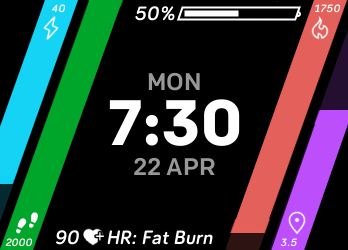
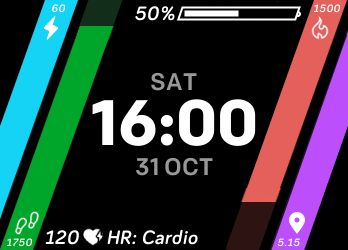
Version 3.0: Added weather and floors climbed

diff --git a/Rays-export/app/index.js b/Rays-export/app/index.js
@@ -8,7 +8,9 @@ import { battery } from "power";
 import { user } from "user-profile";
 import { HeartRateSensor } from "heart-rate";
 import * as util from "../common/utils";
+import * as messaging from "messaging";
 
+const display = document.getElementById("display");
 const dayText = document.getElementById("dayText");
 const timeText = document.getElementById("timeText");
 const dateText = document.getElementById("dateText");
@@ -39,9 +41,21 @@ const distText = document.getElementById("distText");
 const distIcon = document.getElementById("distIcon");
 const distCap = document.getElementById("distCap");
 
+let textuse = document.getElementById("textuse");
+let textgroup = textuse.getElementById("textgroup");
+let distuse = document.getElementById("distuse");
+let distgroup = distuse.getElementById("distgroup");
+
+let currTemp = "--";
+let currWeather = "";
+let currWeatherIcon = "img_sun.png";
+
 const barSlope = -2.78;
 const longBarWidth = 94;
 const shortBarWidth = 80;
+
+let baseInfo = true;
+let changingInfo = false;
 
 // Update the clock every minute
 clock.granularity = "minutes";
@@ -62,12 +76,32 @@ clock.ontick = (evt) => {
   updateGoalBars();
   updateGoalInfo();
   updateBattery();
-  updateHeart();
+  updateBottomText();
+}
+
+display.onclick = () => {
+  // First check that we're not in the middle of editing the info.
+  if (!changingInfo)
+  {
+    changingInfo = true;
+    baseInfo = !baseInfo;
+    textuse.animate("enable");
+    distuse.animate("enable");
+    updateGoalBars();
+    updateGoalInfo();
+    updateBottomText();
+    textuse.animate("disable");
+    distuse.animate("disable");
+    changingInfo = false;
+  }
 }
 
 // Set the final x/y for each goal bar based on goal progress.
 function updateGoalBars() {
-  // I know magic numbers are bad BUT there are quite a few here just for adjustment of the bars and caps. Sorry!
+  // The bars aren't actually all solid -- they're mostly drawn lines, with images for the caps. So we have to do
+  // some math to make sure they line up correctly and are the right size.
+  
+  // I know magic numbers are bad but there are quite a few here just for adjustment of the bars and caps. Sorry!
   activityBar.x2 = -util.getGoalBar(activityBar.x1, shortBarWidth, today.local.activeMinutes, goals.activeMinutes);
   activityBar.y2 = activityBar.x2 * barSlope - 4;
   activityCap.x = activityBar.x2 - 19;
@@ -83,10 +117,14 @@ function updateGoalBars() {
   calCap.x = calBar.x2 - 20;
   calCap.y = calCap.x * barSlope - 65;
   
-  distBar.x2 = util.getGoalBar(distBar.x1, shortBarWidth, today.local.distance, goals.distance);
+  if (baseInfo) {
+    distBar.x2 = util.getGoalBar(distBar.x1, shortBarWidth, today.local.distance, goals.distance);
+  } else {
+    distBar.x2 = util.getGoalBar(distBar.x1, shortBarWidth, today.local.elevationGain, goals.elevationGain);
+  }
   distBar.y2 = distBar.x2 * barSlope + 6;
-  distCap.x = distBar.x2 - 19;
-  distCap.y = distCap.x * barSlope - 55;
+  distCap.x = distBar.x2 - 18;
+  distCap.y = distCap.x * barSlope - 50;
 }
 
 // Update the stat numbers for each goal and "fill" the icon if the goal is met.
@@ -103,9 +141,19 @@ function updateGoalInfo() {
   if (today.local.calories >= goals.calories)
     calIcon.href = "img_calorieFill.png";
   
-  distText.text = util.calculateDistance(today.local.distance, units.distance);
-  if (today.local.distance >= goals.distance)
-    distIcon.href = "img_distanceFill.png";  
+  if (baseInfo) {
+    distText.text = util.calculateDistance(today.local.distance, units.distance);
+    if (today.local.distance >= goals.distance)
+      distIcon.href = "img_distanceFill.png";  
+    else
+      distIcon.href = "img_distanceLine.png";
+  } else {
+    distText.text = today.local.elevationGain || 0;
+    if (today.local.elevationGain >= goals.elevationGain)
+      distIcon.href = "img_floorFill.png";  
+    else
+      distIcon.href = "img_floorLine.png";
+  }
 }
 
 // Update battery line length and percentage.
@@ -116,13 +164,70 @@ function updateBattery() {
 }
 
 // This runs constantly so that heart rate text and icon are accurate and current.
-function updateHeart() {
+function updateBottomText() {
   let hrm = new HeartRateSensor();
-  hrm.start();
-
-  hrm.onreading = function() {
-    heartRate.text = hrm.heartRate || "--";
-    heartIcon.href = util.getHRIcon(user.heartRateZone(hrm.heartRate));
-    heartZone.text = "HR: " + util.getHRZone(user.heartRateZone(hrm.heartRate));
+  
+  if (baseInfo) {
+    hrm.start();
+    heartRate.text = "--";
+    heartIcon.href = "img_hr_resting.png";
+    heartZone.text = "Sensing..."
+    hrm.onreading = function() {
+      heartRate.text = hrm.heartRate || "--";
+      heartIcon.href = util.getHRIcon(user.heartRateZone(hrm.heartRate));
+      heartZone.text = "HR: " + util.getHRZone(user.heartRateZone(hrm.heartRate));
+    }
+  } else {
+    hrm.stop();
+    console.log("Fahrenheit temperature returned is " + currTemp + ". User setting for unit is " + units.temperature);
+    heartRate.text = (units.temperature == "F" ? currTemp : util.fahrenheitToCelsius(currTemp));
+    if (heartRate.text == null || isNaN(heartRate.text))
+      heartRate.text = "--"
+    else
+      heartRate.text += "°";
+    heartIcon.href = currWeatherIcon;
+    heartZone.text = currWeather || "Searching...";
+    console.log("Adjusting currWeather to " + currWeather);
   }
 }
+
+// Request weather data from the companion
+function fetchWeather() {
+  if (messaging.peerSocket.readyState === messaging.peerSocket.OPEN) {
+    // Send a command to the companion
+    messaging.peerSocket.send({
+      command: 'weather'
+    });
+  }
+}
+
+// Display the weather data received from the companion
+function processWeatherData(data) {
+  console.log("Weather ID: " + data.weatherid);
+  currTemp = Math.round(data.temperature);
+  currWeather = util.getWeather(data.weatherid);
+  console.log("currWeather is " + currWeather);
+  currWeatherIcon = util.getWeatherIcon(currWeather);
+}
+
+// Listen for the onopen event
+messaging.peerSocket.onopen = function() {
+  // Fetch weather when the connection opens
+  fetchWeather();
+}
+
+// Listen for messages from the companion
+messaging.peerSocket.onmessage = function(evt) {
+  if (evt.data) {
+    processWeatherData(evt.data);
+  }
+}
+
+// Listen for the onerror event
+messaging.peerSocket.onerror = function(err) {
+  // Handle any errors
+  console.log("Connection error: " + err.code + " - " + err.message);
+}
+
+// Fetch the weather every 30 minutes
+setInterval(fetchWeather, 30 * 1000 * 60);

diff --git a/Rays-export/resources/styles.css b/Rays-export/resources/styles.css
@@ -6,13 +6,18 @@
   text-anchor: middle;
 }
 
+#display {
+  viewport-fill: black;
+  opacity: 0;
+}
+
 #dayText {
   font-size: 24;
   font-family: Colfax-Medium;
   text-length: 32;
   text-anchor: middle;
   x: 50%;
-  y: 36%;
+  y: 34%;
   fill: white;
   opacity: 0.6;
 }
@@ -22,7 +27,7 @@
   text-length: 32;
   text-anchor: middle;
   x: 50%;
-  y: 58%;
+  y: 56%;
   fill: white;
 }
 #dateText {
@@ -31,7 +36,7 @@
   text-length: 32;
   text-anchor: middle;
   x: 50%;
-  y: 70%;
+  y: 68%;
   fill: white;
   opacity: 0.6;
 }
@@ -127,7 +132,7 @@
   x: -14;
   y: 50;
   height: 14;
-  width: 40;
+  width: 39;
 }
 #calIcon {
   x: -24;
@@ -147,6 +152,11 @@
 }
 
 #distHold {
+  x: 284;
+  y: 248;
+}
+
+#distbarhold {
   x: 284;
   y: 248;
 }
@@ -175,10 +185,10 @@
   text-anchor: middle;
 }
 #distCap {
-  x: -14;
+  x: -13;
   y: 5;
   height: 14;
-  width: 40;
+  width: 38;
 }
 
 #batteryPercentage {
@@ -200,7 +210,7 @@
 }
 
 #heartRate {
-  x: 82;
+  x: 85;
   y: 244;
   fill: white;
   font-size: 20;
@@ -209,14 +219,14 @@
   text-anchor: end;
 }
 #heartIcon {
-  x: 82;
+  x: 85;
   y: 226;
   width: 22;
   height: 22;
   fill: white;
 }
 #heartZone {
-  x: 106;
+  x: 109;
   y: 244;
   fill: white;
   font-size: 20;

diff --git a/Rays-export/common/utils.js b/Rays-export/common/utils.js
@@ -124,3 +124,38 @@ export function getHRZone(heartZone)
   
   return "--";
 }
+
+export function fahrenheitToCelsius(temperature)
+{
+  return Math.round((temperature - 32.0) * (5.0/9.0));
+}
+
+export function getWeather(weatherid)
+{
+  if (weatherid < 300)
+    return "Thunderstorm";
+  if (weatherid < 600)
+    return "Raining";
+  if (weatherid < 700)
+    return "Snowing";
+  if (weatherid < 800)
+    return "Misty";
+  if (weatherid == 800)
+    return "Clear Skies";
+  if (weatherid < 900)
+    return "Cloudy";
+  
+  return "--";
+}
+
+export function getWeatherIcon(weathertype)
+{
+  if (weathertype == "Thunderstorm" || weathertype == "Raining")
+    return "img_rain.png";
+  if (weathertype == "Snowing")
+    return "img_snow.png";
+  if (weathertype == "Misty" || weathertype == "Cloudy")
+    return "img_cloud.png";
+  
+  return "img_sun.png";
+}

diff --git a/README.md b/README.md
@@ -1,29 +1,20 @@
 # Rays
-Rays is a clock face for the Fitbit Ionic. I created it because I wanted a decorative clock face that was still functional and data-generous (i.e. shows goals, battery, and heart rate at a glance).
+Rays is a clock face for the Fitbit Ionic that shows stats as vibrant angled lines and provides useful data at a glance.
+It's also open source (because I know how much that can help beginners)!
 
-If you're on mobile, you can use the below link to open the Fitbit app directly to this watch face:
-https://gam.fitbit.com/gallery/clock/80531c9a-7da0-4e71-85f7-9b0aeb1a9cd2
+###### If you're on mobile, you can use the below link to open the Fitbit app gallery directly to this watch face:
+###### https://gam.fitbit.com/gallery/clock/80531c9a-7da0-4e71-85f7-9b0aeb1a9cd2
 
-## Features
-* Time display is configurable (12 hour or 24 hour)
-* Shows current day of the week and date
-* Displays current heart rate (if available) in BPM
-  - Heart rate zone is displayed as text as well
-  - Heart rate icon changes based on intensity
-* Displays battery level as both percentage and as a bar
-* 4 "rays" display user's progress toward goals as a growing, colored strip, so user knows how close they are to goals
-  - Each ray has an icon as a label and text corresponding to the goal, such as number of steps
-  - The icon changes from an outline to an opaque symbol when the goal is reached
-  - Distance traveled stat checks user settings to scale based on kilometers or miles
-    
-#### Updates (Current version: 2.1)
-* Standardized the math for drawing each ray. No more rays leaning a little too much to the side!
-* Added ray "caps" that make the rays a little better looking, and close gaps due to ray length maxing out too.
-* Created and implemented heart rate icons that change with current HR intensity.
+### Features
+📅 Day of the week and date
+🔋 Battery level percentage and bar
+❤ Heart rate with corresponding zone info (resting, fat burn, or cardio/peak)
+🥇 Fitness goal progress visuals (distance goal is scaled based on user's selected units)
+⛅ Weather and stairs climbed stats are visible by tapping the screen to toggle which info is displayed!
 
 ### Screenshots
-##### Example 1
-![Keep it up!](https://github.com/ishfulthinking/fitbit-rays/blob/master/Rays-screenshots/Rays-screenshot1.png)
+| Example 1 | Example 2 |
+| --------- | --------- |
+| ![Keep it up!](https://github.com/ishfulthinking/fitbit-rays/blob/master/Rays-screenshots/Rays-screenshot1.png) | ![You did it!](https://github.com/ishfulthinking/fitbit-rays/blob/master/Rays-screenshots/Rays-screenshot2.png) |
 
-##### Example 2
-![You did it!](https://github.com/ishfulthinking/fitbit-rays/blob/master/Rays-screenshots/Rays-screenshot2.png)
+🙋🏽♂ If you enjoy this app, please consider helping a broke college student (me)! https://www.buymeacoffee.com/ishfulthinking
